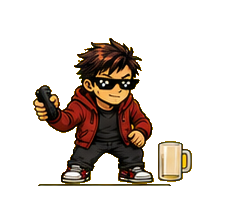
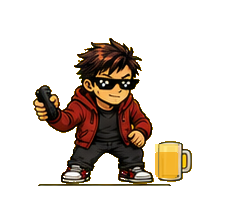
Refine man sprite beer and fart frames

Changed region(s): [[0.6417, 0.699, 0.7583, 0.8738]]

diff --git a/tests/test_word_jump_overlay.py b/tests/test_word_jump_overlay.py
@@ -315,7 +315,7 @@ def test_man_sprite_keeps_beer_and_fart_effect_colors():
     ]
 
     assert len(beer_yellow_pixels) > 800
-    assert len(fart_green_pixels) > 1200
+    assert len(fart_green_pixels) > 2600
 
 
 def test_man_sprite_keeps_yellow_beer_in_timer_mugs():
@@ -326,8 +326,9 @@ def test_man_sprite_keeps_yellow_beer_in_timer_mugs():
         "08.png": 500,
         "10.png": 450,
         "16.png": 200,
+        "20.png": 400,
         "21.png": 150,
-        "23.png": 80,
+        "23.png": 250,
     }
 
     for frame_name, minimum_pixels in minimum_right_side_beer_pixels.items():
@@ -364,7 +365,7 @@ def test_man_sprite_keeps_hands_after_background_cleanup():
 
 def test_man_sprite_has_no_yellow_sheet_background_between_legs():
     frames_dir = Path("assets/mascot/man_character_frames")
-    for frame_name in ("18.png", "19.png", "20.png", "21.png", "22.png", "23.png"):
+    for frame_name in ("09.png", "18.png", "19.png", "20.png", "21.png", "22.png", "23.png"):
         frame = Image.open(frames_dir / frame_name).convert("RGBA")
         width, height = frame.size
         suspicious_yellow_pixels = 0
